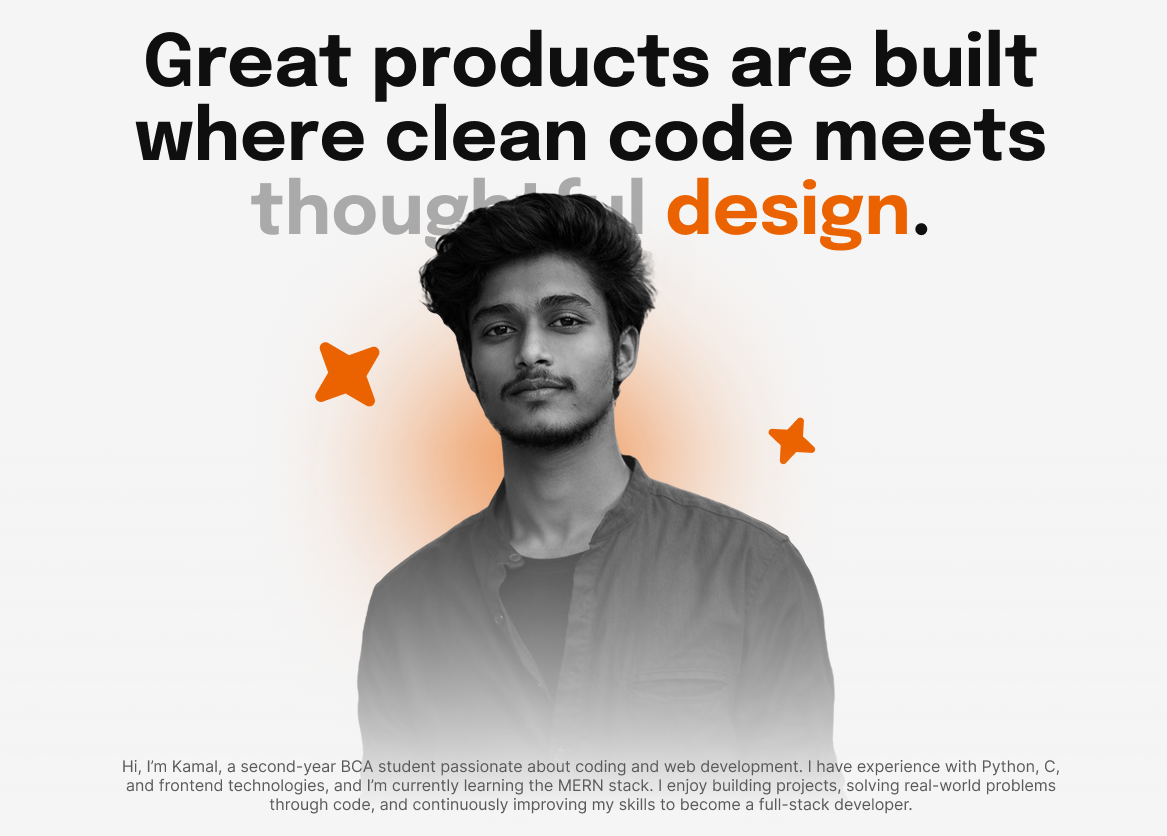
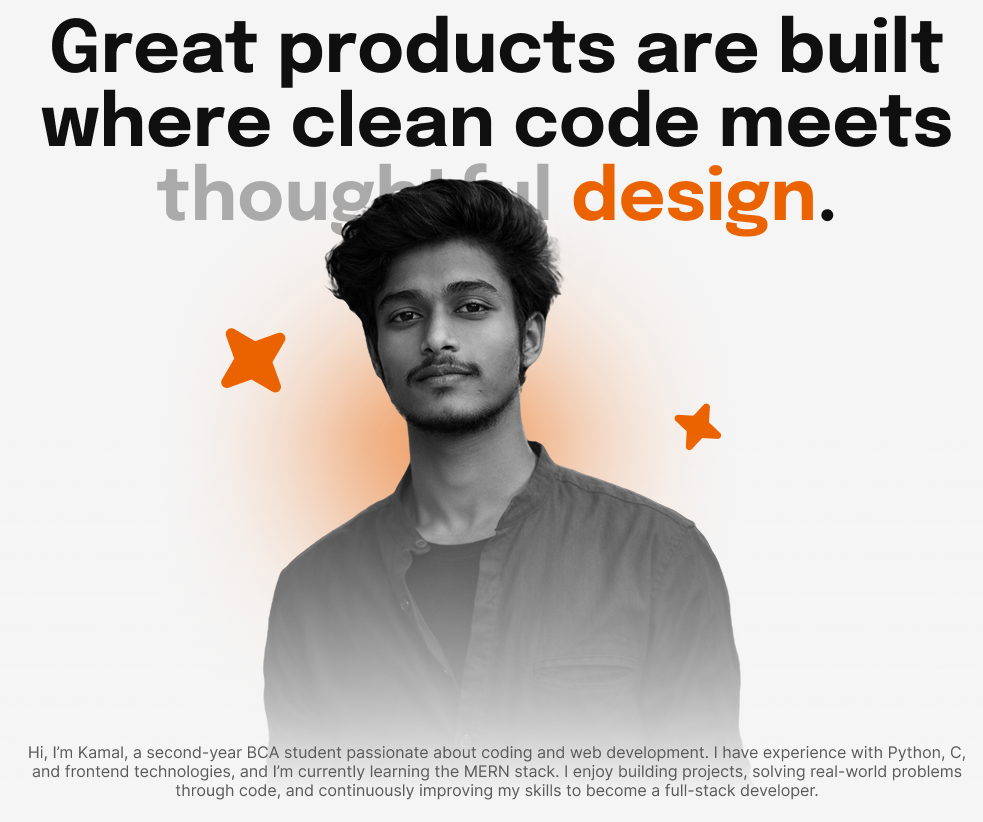
final commit

diff --git a/src/pages/Home.jsx b/src/pages/Home.jsx
@@ -4,31 +4,20 @@ import Hero from "../assets/herosec.png";
 function Home() {
   return (
     <div className="text-center pt-6 md:pt-8 px-4 overflow-hidden">
-
-      <div className="max-w-lg sm:max-w-lg md:max-w-2xl  mx-auto">
-
+      <div className="max-w-xl sm:max-w-lg md:max-w-2xl  mx-auto">
         {/* Hero Image */}
-        <img
-          src={Hero}
-          alt="Hero section"
-          className="w-full h-auto"
-        />
-
+        <img src={Hero} alt="Hero section" className="w-full h-96 md:h-auto" />
       </div>
-
       {/* Resume Button */}
       <a href={Resume} download>
         <button className="relative cursor-pointer overflow-hidden mt-5 md:mt-8 px-3 py-2 md:px-6 md:py-3 w-36 md:w-52 rounded-xl bg-[#0F0F0F] text-white group">
-
           <span className="relative z-10 text-sm md:text-lg">
             Download Resume
           </span>
 
           <span className="absolute inset-0 bg-[#EB6200] scale-x-0 origin-left transition-transform duration-300 group-hover:scale-x-100"></span>
-
         </button>
       </a>
-
     </div>
   );
 }
